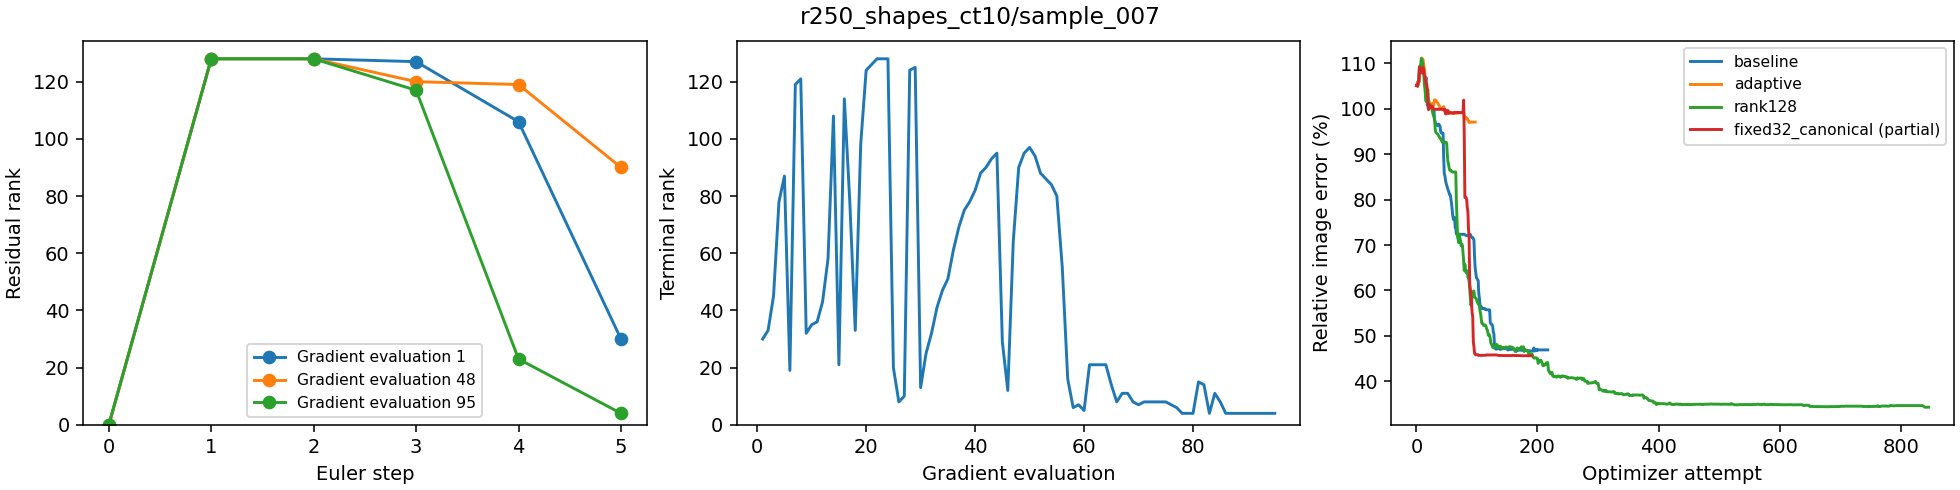
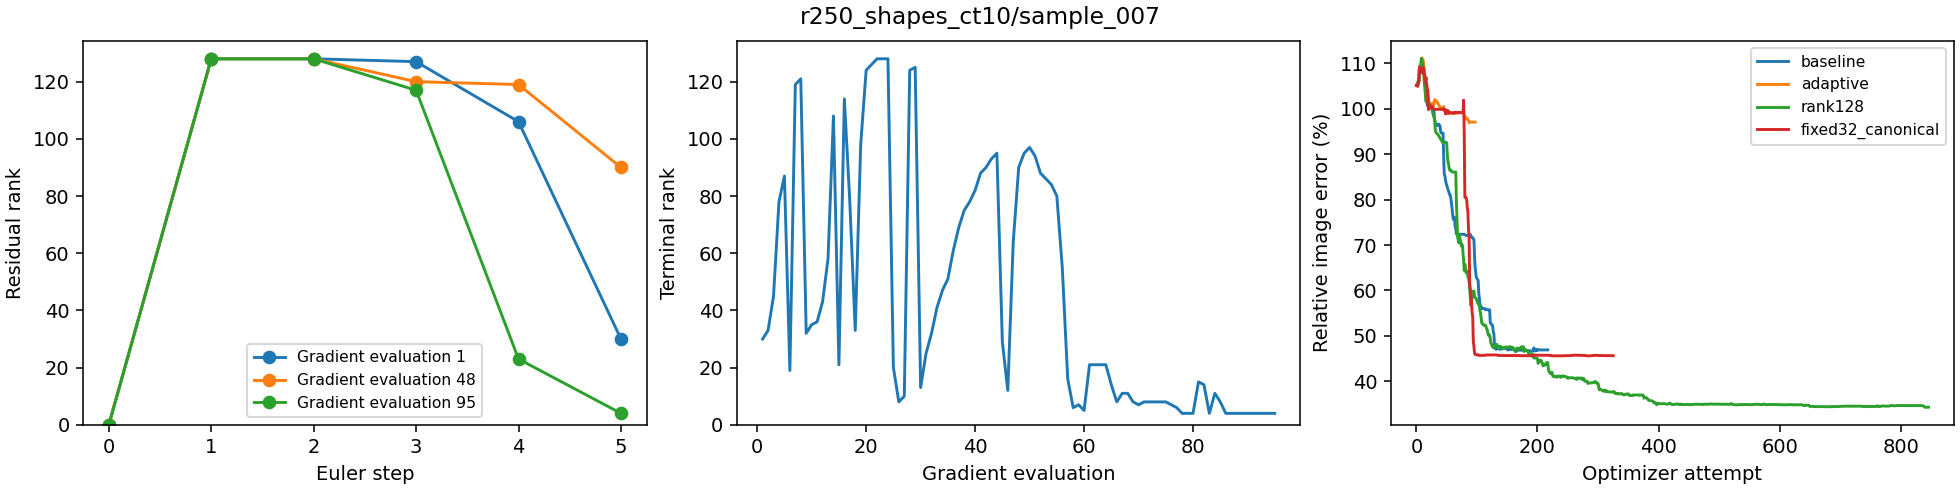
Audit factor arithmetic and test shared-budget source restarts

Changed region(s): [[0.8714, 0.0918, 0.9959, 0.3061], [0.7781, 0.7041, 0.8403, 0.7347]]

diff --git a/experiments/separated_shapes_117k/multistart.py b/experiments/separated_shapes_117k/multistart.py
@@ -1,0 +1,152 @@
+"""Measurement-selected source restarts with one shared optimizer-attempt budget."""
+from __future__ import annotations
+
+import argparse
+from copy import deepcopy
+import hashlib
+import json
+import math
+from pathlib import Path
+
+import torch
+
+from dlr_dflow.api import load_flow_model
+from dlr_dflow.implementation import enriched, tangent_unet
+from dlr_dflow.implementation.graphed_products import GraphedAProducts
+from experiments.ct_mri_sweep import run
+from experiments.ct_mri_sweep.operators import CT, MRI
+from experiments.ct_mri_sweep.queue import source_hashes
+from scripts.reconstruction_figures import RESIDUAL_VMAX, plot_reconstruction_comparison
+
+
+def main() -> None:
+    parser = argparse.ArgumentParser(description=__doc__)
+    parser.add_argument("--baseline", type=Path,
+        default=Path("outputs/separated_shapes_117k_noiseless_20261021/production"))
+    parser.add_argument("--out", type=Path, required=True)
+    parser.add_argument("--cases", nargs="+", required=True)
+    parser.add_argument("--methods", nargs="+", choices=run.METHODS, default=list(run.METHODS))
+    parser.add_argument("--rank", type=int, default=128)
+    parser.add_argument("--probe-updates", type=int, default=50)
+    parser.add_argument("--budget", type=int, default=1000)
+    args = parser.parse_args()
+    if not 0 < 4 * args.probe_updates < args.budget:
+        parser.error("Four positive probe budgets must leave a continuation budget")
+    torch.set_num_threads(2)
+    torch.set_num_interop_threads(1)
+    device = torch.device("cuda:1")
+    torch.cuda.set_device(device)
+    torch.cuda.set_per_process_memory_fraction(.2, device)
+    torch.backends.cuda.matmul.allow_tf32 = False
+    torch.backends.cudnn.allow_tf32 = False
+    torch.backends.cudnn.benchmark = False
+    settings = json.loads((args.baseline / "manifest.json").read_text())["settings"]
+    settings["dlr"]["rank"] = args.rank
+    settings["stopping"]["max_updates"] = args.probe_updates
+    evidence = dict(script_sha256=hashlib.sha256(Path(__file__).read_bytes()).hexdigest(),
+        source_hashes=source_hashes(), settings=settings, budget=args.budget,
+        probe_updates=args.probe_updates, cases=args.cases, methods=args.methods,
+        selection="Minimum final probe measurement objective; no ground-truth selection")
+    run.write_json(args.out / "config.json", evidence)
+    tangent_unet.GN_STATS_MODE = "native"
+    tangent_unet.GN_ACTION_BACKEND = "triton"
+    tangent_unet.GN_PRIMAL_BACKEND = "full"
+    enriched.SPECIALIZE_ZERO_ENRICHMENT = True
+    enriched.SKIP_UNTRUNCATED_SVD = True
+    for case in args.cases:
+        original = torch.load(args.baseline / case / "inputs.pt", map_location=device, weights_only=True)
+        protocol = original["protocol"]
+        resolution = protocol["job"]["resolution"]
+        folder = Path(settings["run_template"].format(resolution=resolution))
+        assert hashlib.sha256((folder / "checkpoints/epoch_0500.pt").read_bytes()).hexdigest() == protocol["checkpoint_sha256"]
+        model, _ = load_flow_model(resolution, 0, 500, str(device), folder)
+        info = protocol["operator"]
+        operator = (CT(resolution, protocol["job"]["level"], device) if protocol["job"]["problem"] == "ct"
+                    else MRI(resolution, 4, info["mask_seed"], device, info["pattern"]))
+        if isinstance(operator, MRI):
+            assert torch.equal(operator.mask, original["mask"])
+        directory = args.out / case
+        directory.mkdir(parents=True, exist_ok=True)
+        pool_path = directory / "pool.pt"
+        if pool_path.exists():
+            pool = torch.load(pool_path, map_location=device, weights_only=True)
+            assert pool["protocol"] == protocol and pool["experiment"] == evidence
+            for key in ("truth", "clean", "observed"):
+                assert torch.equal(pool[key], original[key])
+        else:
+            source = original["initial"]
+            variable = torch.zeros_like(source, requires_grad=True)
+            pairing = (operator(variable).conj() * original["observed"]).real.sum()
+            direction, = torch.autograd.grad(pairing, variable)
+            direction -= direction.mean()
+            if not torch.isfinite(direction).all() or direction.norm() == 0:
+                raise FloatingPointError("Measurement adjoint cannot define an initialization")
+            direction *= math.sqrt(source.numel()) / direction.norm()
+            additional_seed = protocol["source_seed"] + 50000000
+            candidates = {
+                "original": source,
+                "measurement_half": math.sqrt(.75) * source + .5 * direction,
+                "measurement_full": direction,
+                "independent": torch.randn(source.shape,
+                    generator=torch.Generator().manual_seed(additional_seed)).to(source),
+            }
+            pool = {**original, "experiment": evidence, "sources": candidates,
+                "additional_source_seed": additional_seed,
+                "source_hashes": {name: hashlib.sha256(value.cpu().numpy().tobytes()).hexdigest()
+                                  for name, value in candidates.items()}}
+            run.save_tensor(pool_path, pool)
+        products = GraphedAProducts(model, pool["initial"], share_linearization=True,
+            full_step_graphs=True, max_jvp_columns=20, max_vjp_columns=16,
+            max_step_jvp_columns=6, max_step_vjp_columns=4)
+        results = {}
+        summaries = {}
+        for method in args.methods:
+            stem = method.lower().replace("-", "_").replace(" ", "_")
+            probes = {}
+            for name, source in pool["sources"].items():
+                (directory / name).mkdir(exist_ok=True)
+                paired = {**protocol, "experiment": evidence, "candidate": name,
+                    "initial_source_sha256": pool["source_hashes"][name]}
+                evaluator = run.Evaluator(model, operator, pool["observed"], settings,
+                                          protocol["dlr_seed"], products)
+                probes[name] = run.solve(evaluator, method, source, pool["truth"], pool["clean"],
+                    directory / name / f"{stem}.pt", paired, [False])
+            winner = min(probes, key=lambda name: probes[name]["history"][-1]["phi"])
+            selected = probes[winner]
+            spent = sum(result["history"][-1]["step"] for result in probes.values())
+            selected_steps = selected["history"][-1]["step"]
+            continuation = deepcopy(settings)
+            continuation["stopping"]["max_updates"] = selected_steps + args.budget - spent
+            paired = {**selected["protocol"], "stage": "continuation", "selected_candidate": winner,
+                "probe_attempts_total": spent, "continuation_settings": continuation}
+            final_path = directory / f"{stem}.pt"
+            if not final_path.exists():
+                run.save_tensor(final_path, {**selected, "protocol": paired,
+                    "status": "paused" if selected["status"] == "step_limit" else selected["status"]})
+            evaluator = run.Evaluator(model, operator, pool["observed"], continuation,
+                                      protocol["dlr_seed"], products)
+            final = run.solve(evaluator, method, pool["sources"][winner], pool["truth"], pool["clean"],
+                              final_path, paired, [False])
+            total = spent + final["history"][-1]["step"] - selected_steps
+            assert total <= args.budget
+            summaries[method] = dict(selected=winner, status=final["status"], total_attempts=total,
+                final_metrics=final["history"][-1],
+                probes={name: dict(objective=result["history"][-1]["phi"],
+                                  attempts=result["history"][-1]["step"],
+                                  image_error=result["history"][-1]["image_relative_l2"])
+                        for name, result in probes.items()})
+            run.write_json(directory / "summary.json", summaries)
+            results[method] = final
+        figure = plot_reconstruction_comparison(pool["truth"], pool["clean"],
+            {method: (result["image"], result["measurement"]) for method, result in results.items()},
+            observation=pool["observed"], include_errors=True, measurement_log=isinstance(operator, MRI),
+            residual_vmax=RESIDUAL_VMAX[protocol["job"]["problem"]],
+            title=f"{case}: measurement-selected starts; total budget {args.budget}")
+        figure.savefig(directory / "comparison.png", dpi=120)
+        run.plt.close(figure)
+        del evaluator, products, model, original, pool, probes, results
+        torch.cuda.empty_cache()
+
+
+if __name__ == "__main__":
+    main()

diff --git a/experiments/separated_shapes_117k/gradient_audit.py b/experiments/separated_shapes_117k/gradient_audit.py
@@ -71,6 +71,8 @@ def main() -> None:
     integrator = parser.add_mutually_exclusive_group()
     integrator.add_argument("--stable-sl", action="store_true")
     integrator.add_argument("--increment-ksl", action="store_true")
+    parser.add_argument("--factor-arithmetic", choices=("specialized", "eager_specialized", "direct", "canonical"),
+        default="specialized", help="Compare equivalent fixed-rank arithmetic without changing the model or rank")
     parser.add_argument("--skip-reference", action="store_true")
     parser.add_argument("--terminal-seed", action="store_true")
     parser.add_argument("--line-search-audit", action="store_true")
@@ -79,6 +81,8 @@ def main() -> None:
     parser.add_argument("--manifest", type=Path,
         default=Path("outputs/separated_shapes_117k_noiseless_20261021/production/manifest.json"))
     args = parser.parse_args()
+    if args.factor_arithmetic != "specialized" and (args.stable_sl or args.increment_ksl):
+        parser.error("Factor arithmetic controls require the original integrator")
     torch.set_num_threads(2)
     torch.set_num_interop_threads(1)
     device = torch.device("cuda:1")
@@ -164,12 +168,15 @@ def main() -> None:
     tangent_unet.GN_STATS_MODE = "native"
     tangent_unet.GN_ACTION_BACKEND = "triton"
     tangent_unet.GN_PRIMAL_BACKEND = "full"
-    enriched.SPECIALIZE_ZERO_ENRICHMENT = True
-    products = GraphedAProducts(model, source, share_linearization=True, full_step_graphs=not args.stable_sl,
+    enriched.SPECIALIZE_ZERO_ENRICHMENT = args.factor_arithmetic in ("specialized", "eager_specialized")
+    products = GraphedAProducts(model, source, share_linearization=True,
+        full_step_graphs=not args.stable_sl and args.factor_arithmetic == "specialized",
         max_jvp_columns=20, max_vjp_columns=16, max_step_jvp_columns=6, max_step_vjp_columns=4)
     for rank in args.ranks:
         for warm in (False, True) if saved is not None and saved.get("previous_v") is not None else (False,):
             options = {**settings["dlr"], "rank": rank}
+            if args.factor_arithmetic == "canonical":
+                options.update(adaptive_rank=True, rank_min=rank, rank_max=rank)
             seed_basis = saved["previous_v"] if warm else None
             if args.terminal_seed:
                 seed_basis = (terminal.reshape(-1, 1) if seed_basis is None else
@@ -182,6 +189,7 @@ def main() -> None:
                     seed_basis=seed_basis)
             estimate = approx_source_gradient(factors, terminal, alpha).reshape(-1, 1)
             row = dict(method="stable_sl" if args.stable_sl else "increment_ksl" if args.increment_ksl else "dynamic", rank=rank, warm=warm,
+                       factor_arithmetic=args.factor_arithmetic,
                        terminal_seed=args.terminal_seed, **scores(estimate, exact, factors[2], terminal),
                        endpoint_relative_error=float((endpoint-image.detach()).norm()/image.detach().norm()))
             report["rows"].append(row)

diff --git a/experiments/separated_shapes_117k/diagnose.py b/experiments/separated_shapes_117k/diagnose.py
@@ -81,6 +81,8 @@ def main() -> None:
     parser.add_argument("--restart-source", type=Path,
         help="One-case cold-optimizer continuation from a saved source, with its previous right basis")
     parser.add_argument("--history-fallback", action="store_true")
+    parser.add_argument("--no-reuse-v", action="store_true",
+        help="Rebuild each initialization sketch without the previous right basis")
     parser.add_argument("--rank-min", type=int, default=4)
     parser.add_argument("--rank-max", type=int, default=128)
     parser.add_argument("--rank-tol", type=float, default=1e-3)
@@ -101,6 +103,8 @@ def main() -> None:
     settings = manifest["settings"]
     if args.rank is not None:
         settings["dlr"]["rank"] = args.rank
+    if args.no_reuse_v:
+        settings["dlr_reuse_previous_v"] = False
     args.out.mkdir(parents=True, exist_ok=True)
     evidence = dict(baseline=str(args.baseline.resolve()), cases=args.cases,
                     variants=args.variants, backend=args.backend, rank=settings["dlr"]["rank"],
@@ -110,6 +114,7 @@ def main() -> None:
     if args.restart_source:
         evidence["restart_source"] = str(args.restart_source)
     evidence["history_fallback"] = args.history_fallback
+    evidence["reuse_previous_v"] = settings.get("dlr_reuse_previous_v", False)
     if args.source_cache_variant:
         if not args.source_cache_roots:
             parser.error("--source-cache-variant requires --source-cache-roots")

diff --git a/experiments/experiments-2026-10-22.md b/experiments/experiments-2026-10-22.md
@@ -11,3 +11,5 @@
 | 01:11 | Paired reconstruction controls after native-normalization correction | Correcting numerical drift need not repair an already unfavorable optimization trajectory; distinguish startup truncation, source information and rank. | Rerun selected250CT0/MRI1/MRI0 with native forward normalization, rank32, unchanged five-step generator and shared LBFGS/Armijo1000-attempt budget. Native baseline final DLR errors105.37/100.02/99.74%; two-step startup106.94/100.02/99.91%: no rescue. Cached initialization sqrt(0.75)z+0.5 normalized centered A*y gives DLR37.12/12.31/9.34%, versus matched random mixing109.49/99.94% for first two completed controls; final third control pending at this entry. All three methods receive identical conditioned sources. Rank128 native controls launched to test remaining truncation error. | Identical truth, operator, noise-free measurement, model checkpoint and source hashes across methods within each variant. Neither initializer uses ground truth. Selected failures, not a population success estimate; mixed initialization can harm exact D-Flow/P-Flow on CT0. New diagnostic paths/configurations remain isolated from original sweep. | Recorded01:11; MRI random-control and rank128 runs still live, checkpoints updating. GPU1, separate samples per concurrent process. | No initialization/default-rank promotion yet. Numerical bug fixed but broad accuracy goal remains active. Evidence: native_reconstruction/, initialization_controls/, mri_initialization_controls/, rank128/ under outputs/separated_shapes_117k_diagnosis_20261022/. |
 | 02:35 | Completed adaptive-rank pilot and canonical fixed-rank controls | Diverse object counts may require different ranks, but the adaptive path also changes factor arithmetic. Separate these effects before attributing accuracy gains to rank selection. | All12 original pilot runs completed. For250MRI2/CT20/MRI4/CT7, fixed32 errors99.687/3.946/94.224/46.905%; adaptive4–128 errors100.040/3.742/1.743/97.082%; fixed128 errors99.768/3.999/31.235/34.280%. Fixed128 using the canonical adaptive path with equal bounds is still running but below1.7% on MRI4, so adaptation is not required to reach this accuracy on that case. Launch equal-bound32 controls on CT7 then MRI4. Reporter now includes these controls and verifies paired hashes. | Four discrete-product/KSL/history tests pass. Source/checkpoint hashes match within each original case. Partial controls are labeled; no population claim from four selected cases. | Recorded02:35; GPU1 only. | Keep rank adaptation experimental. Broad accuracy correction remains unresolved; do not promote a new default rank or claim the MRI rescue proves adaptation. |
 | 02:35 | Objective-selected initialization and frozen-increment audit | Blank outputs can have smaller initial loss than informative but mis-scaled outputs; examine measurement-only source selection and consistent Euler-target factor updates. | Cached five mixture candidates for measurement and matched random directions on8 cases under raw and profiled-gain selection. Gain is used only to choose a source, never applied to reconstruction. Paired profiled starts: CT0 D/P/fixed32/adaptive errors4.459/53.300/39.612/36.500%; MRI1 errors5.585/21.405/10.976/10.979%. Fixed-source changed Euler grids are inconsistent across cases. Frozen-Euler-increment KSL changes MRI1 warmrank32 cosine only-0.0148 to-0.0146; no reconstruction launch. | All32 cached inputs checked for hashes and unchanged truth/measurements. Dense frozen-field KSL and full-rank Euler identity pass in float64. Grid reevaluation is explicitly not reoptimization. No truth used for initializer selection. | Recorded02:35; completed GPU1 diagnostics. | Retain isolated diagnostic code and evidence, no production initializer/integrator change. These controls do not provide a general failure correction. |
+| 02:47 | Fixed-rank arithmetic controls and basis-reuse ablation | Adaptive MRI rescue could reflect rank capacity, factor arithmetic, or trajectory sensitivity. Test equivalent implementations at a common source and remove cached-V feedback without changing rank. | Canonical fixed128 MRI4 completes1000 attempts at1.597%, versus adaptive1.743% and specialized fixed12831.235%. Canonical fixed32 ends73.820% on MRI4 and45.616% on CT7. At the specialized128 MRI4 endpoint, graph/eager-specialized/direct-core/canonical implementations all give warm gradient error0.650960 and cosine0.759136 to six decimals, with identical native endpoints. Fresh-sketch128 controls end100.024% on MRI1 and91.052% on CT0; MRI4 remains active. | Same source/checkpoint hashes, unchanged alpha/rank/optimizer in each arithmetic control. Distinguish fixed-source agreement from long-trajectory sensitivity; no claim that canonicalization is generally more accurate. CLI additions compile. | Recorded02:47; GPU1 only. | No production arithmetic or reuse-default change. Rank adaptation is not required for the one successful MRI trajectory; capacity and trajectory sensitivity remain material. |
+| 02:47 | Shared-budget measurement-selected restart pilot | Single starts can enter unhelpful regions even when useful reconstructions are representable. Briefly optimize several cached starts before selecting by actual measurement loss. | Add isolated multistart runner: original source, half/full normalized centered measurement adjoint mixtures, and an independent Gaussian. Each method gets the identical pool;50 attempts per probe then continues the lowest-loss winner using the remaining shared1000-attempt budget. Preserve LBFGS history and previous V. Launch all3 methods on250MRI2 andCT7, rank128 DLR, five Euler steps. No image-error selection, no early-failure guard override. | All-method rank4 smoke on250CT2 uses exactly12 total attempts each; selection equals minimum probe objective, source hashes match across methods, continuation history/counters persist. Completed-run resume leaves every tensor checkpoint unchanged. Initial smoke used a missing64 input; subsequent250 smoke exposed a missing output directory, now fixed before launch. | Recorded02:47; two separate-case workers live on GPU1 alongside the fresh-basis MRI4 control. | Experimental only until complete. Paired candidate pools do not imply the same selected source across methods. Cost includes all probes, and final budgets can remain unused after genuine search failure. |

diff --git a/outputs/separated_shapes_117k_diagnosis_20261022/adaptive_pilot/report.md b/outputs/separated_shapes_117k_diagnosis_20261022/adaptive_pilot/report.md
@@ -1,5 +1,5 @@
 # Separated-shapes adaptive-rank pilot
-Updated 2026-10-22T02:36-04:00.
+Updated 2026-10-22T02:47-04:00.
 
 Paired noiseless CT10/MRI4× cases; 117k models, five Euler steps, analytical alpha=1-t, native forward normalization, zero enrichment, and the same LBFGS/Armijo settings and 1000-attempt limit.
 Adaptive bounds: 4–128; retain core singular values at least 0.001 times the largest, subject to these bounds. This cutoff is not a bound on gradient error.
@@ -19,14 +19,14 @@ Errors below use the last saved source. Partial results are explicitly marked; t
 | r250_shapes_mri4/sample_004 | baseline | Complete (stalled) | 199 | 94.224% | 93.707% |
 | r250_shapes_mri4/sample_004 | adaptive | Complete (step_limit) | 1000 | 1.743% | 0.999% |
 | r250_shapes_mri4/sample_004 | rank128 | Complete (stalled) | 370 | 31.235% | 30.091% |
-| r250_shapes_mri4/sample_004 | fixed128_canonical | Partial (running) | 970 | 1.602% | 0.902% |
-| r250_shapes_mri4/sample_004 | fixed32_canonical | Pending | — | — | — |
+| r250_shapes_mri4/sample_004 | fixed128_canonical | Complete (step_limit) | 1000 | 1.597% | 0.899% |
+| r250_shapes_mri4/sample_004 | fixed32_canonical | Complete (stalled) | 342 | 73.820% | 72.543% |
 | r250_shapes_ct10/sample_007 | baseline | Complete (stalled) | 217 | 46.905% | 28.573% |
 | r250_shapes_ct10/sample_007 | adaptive | Complete (stalled) | 97 | 97.082% | 74.187% |
 | r250_shapes_ct10/sample_007 | rank128 | Complete (stalled) | 846 | 34.280% | 20.199% |
-| r250_shapes_ct10/sample_007 | fixed32_canonical | Partial (running) | 190 | 45.631% | 29.501% |
+| r250_shapes_ct10/sample_007 | fixed32_canonical | Complete (stalled) | 325 | 45.616% | 29.479% |
 
-Completed 12/15 method runs.
+Completed 15/15 method runs.
 All available variants within each case have matching initial-source and checkpoint hashes.
 
 ## r250_shapes_mri4/sample_002
